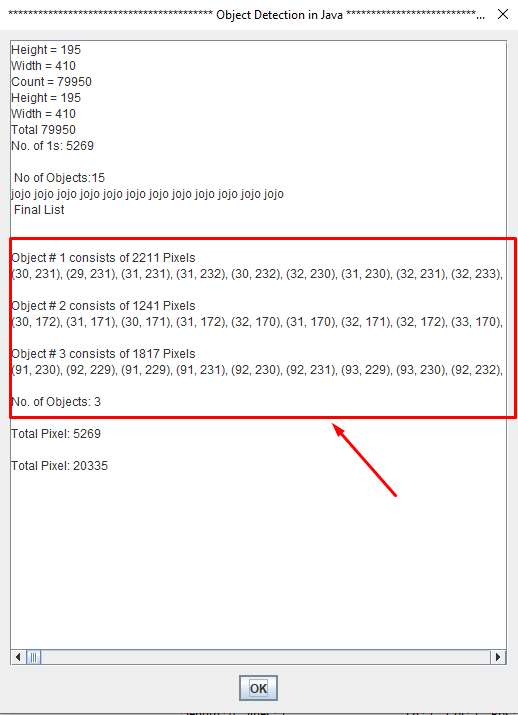
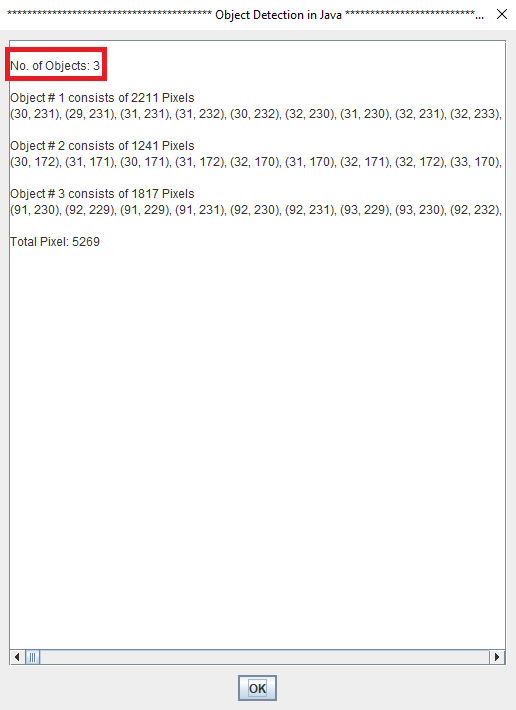
Updated UI screenshot of result.

diff --git a/src/Application/ObjectDetection.java b/src/Application/ObjectDetection.java
@@ -147,13 +147,13 @@ public class ObjectDetection {
         
         try {
             //File input = new File("C:\\Users\\AHSAN\\Desktop\\abc.bmp"); // Has 15 Objects
-            System.out.println("HI AHSA");
+            //System.out.println("HI AHSA");
             
 //            JFilePickerFrame t = new JFilePickerFrame();
 //            t.setVisible(true);
             
             File input = new File(path);
-            System.out.println(input);
+            //System.out.println(input);
             //File input = new File("filled.bmp");
 //            File input = new File("src\\com\\images\\Fruits.bmp");
             //File input = new File("C:\\Users\\AHSAN\\Desktop\\Test.bmp");
@@ -206,7 +206,7 @@ public class ObjectDetection {
 //        System.out.println("Height = " + img.length);
 //        System.out.println("Width = " + img[0].length);
 
-        System.out.println("img = "+img[124][114]);
+        //System.out.println("img = "+img[124][114]);
 
         int cv = 0;
         int total = 0;
@@ -233,7 +233,7 @@ public class ObjectDetection {
                     if(!hasNeighbours){ // If Pixel has No Neighbours then consider it as new object directly.
                         o++;
                         objects.add(x);
-                        System.out.println("\nHI 1");
+                        //System.out.println("\nHI 1");
                     }
 
                     else{  
@@ -371,9 +371,12 @@ public class ObjectDetection {
 
         // Display Final List of All Objects along with the coordinates
             // Complexity = O(n^2)
-        result += "\n Final List \n\n";
+       // result += "\n\n\n*************** Final List ***************\n\n";
 //        System.out.println("\n Final List \n");
         Integer c = 1, z = 0 ;
+        
+        result = "\nNo. of Objects: " + objects2.size() + "\n";
+        
         for(ArrayList <ObjectDetection> l : objects2){
 
         	result += "\nObject # %s consists of %s Pixels \n".formatted(c , l.size());
@@ -397,12 +400,12 @@ public class ObjectDetection {
 
         }
         
-        result += "\nNo. of Objects: " + objects2.size() + "\n"; 
+//        result += "\nNo. of Objects: " + objects2.size() + "\n"; 
         
 //        System.out.println("\nNo. of Objects: " + objects2.size());
         
         result += "\nTotal Pixel: " + z + "\n";
-        result += "\nTotal Pixel: " + y + "\n";
+//        result += "\nTotal Pixel: " + y + "\n";
         
 //        System.out.println("\nTotal Pixel: " + z);
 //        System.out.println("\nTotal Pixel: " + y);
